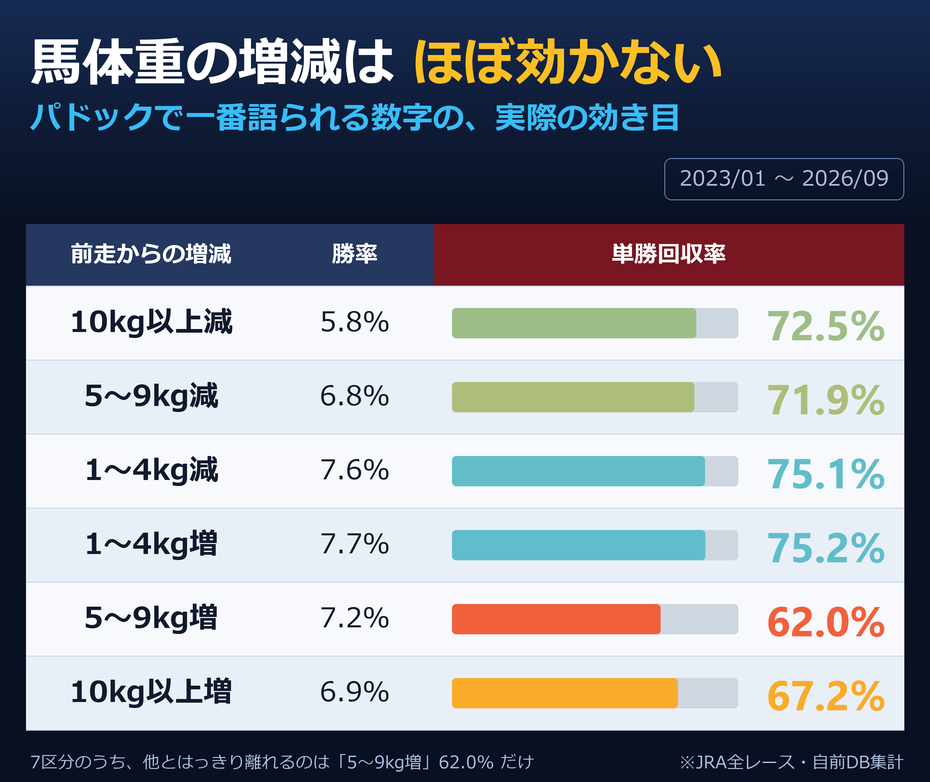
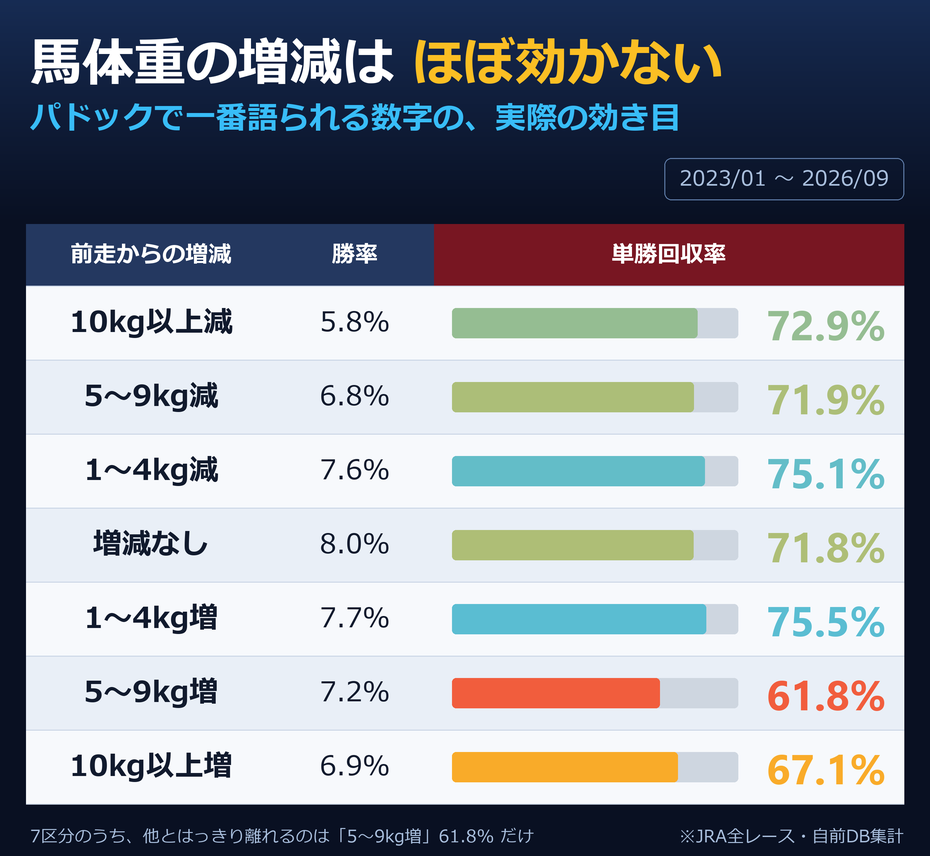
add: データコラムを公開

Changed region(s): [[0.0312, 0.0307, 0.9978, 0.8286], [0.0312, 0.8593, 0.9667, 1.0]]

diff --git a/column/body_weight.html b/column/body_weight.html
@@ -124,9 +124,9 @@ padding:14px 18px;font-size:.92rem;color:var(--dim)}
 <p class="meta">公開 <time datetime="2026-09-13">2026年9月13日</time> ／ 集計期間 2023/01 〜 2026/09</p>
 <div class="col">
 <p>馬体重の増減は必ず話題になりますが、回収率をほとんど動かしていませんでした。</p>
-<div class='tablewrap'><table class='col-table'><thead><tr><th>前走からの増減</th><th>勝率</th><th>単勝回収率</th></tr></thead><tbody><tr><td class='label'>10kg以上減</td><td>5.8%</td><td class='bar'><span class='track'><span class='fill' style='width:85.3%;background:rgb(158,190,136)'></span></span><b style='color:rgb(158,190,136)'>72.5%</b></td></tr><tr><td class='label'>5〜9kg減</td><td>6.8%</td><td class='bar'><span class='track'><span class='fill' style='width:84.6%;background:rgb(172,190,121)'></span></span><b style='color:rgb(172,190,121)'>71.9%</b></td></tr><tr><td class='label'>1〜4kg減</td><td>7.6%</td><td class='bar'><span class='track'><span class='fill' style='width:88.4%;background:rgb(98,189,201)'></span></span><b style='color:rgb(98,189,201)'>75.1%</b></td></tr><tr><td class='label'>1〜4kg増</td><td>7.7%</td><td class='bar'><span class='track'><span class='fill' style='width:88.5%;background:rgb(96,189,204)'></span></span><b style='color:rgb(96,189,204)'>75.2%</b></td></tr><tr><td class='label'>5〜9kg増</td><td>7.2%</td><td class='bar'><span class='track'><span class='fill' style='width:72.9%;background:rgb(241,96,60)'></span></span><b style='color:rgb(241,96,60)'>62.0%</b></td></tr><tr><td class='label'>10kg以上増</td><td>6.9%</td><td class='bar'><span class='track'><span class='fill' style='width:79.0%;background:rgb(249,171,41)'></span></span><b style='color:rgb(249,171,41)'>67.2%</b></td></tr></tbody></table></div><p class='note'>7区分のうち、他とはっきり離れるのは「5〜9kg増」62.0% だけ</p>
-<p>増減なしから±10kg以上まで7つに分けても、勝率は5.8〜7.7%、回収率は62〜75%の範囲に収まります。枠番と同じで、大半の区分は信頼区間が互いに重なります。</p>
-<p>唯一はっきり下に離れるのが「5〜9kg増」の62.0%で、これは1〜4kgの増減に収まった馬とは区間が重なりません。ただし7つも比べていれば、そのうち1つが偶然外れることは珍しくありません。この1点だけを根拠に買い方を変えるのは勧めません。</p>
+<div class='tablewrap'><table class='col-table'><thead><tr><th>前走からの増減</th><th>勝率</th><th>単勝回収率</th></tr></thead><tbody><tr><td class='label'>10kg以上減</td><td>5.8%</td><td class='bar'><span class='track'><span class='fill' style='width:85.8%;background:rgb(149,189,146)'></span></span><b style='color:rgb(149,189,146)'>72.9%</b></td></tr><tr><td class='label'>5〜9kg減</td><td>6.8%</td><td class='bar'><span class='track'><span class='fill' style='width:84.6%;background:rgb(172,190,120)'></span></span><b style='color:rgb(172,190,120)'>71.9%</b></td></tr><tr><td class='label'>1〜4kg減</td><td>7.6%</td><td class='bar'><span class='track'><span class='fill' style='width:88.4%;background:rgb(99,189,200)'></span></span><b style='color:rgb(99,189,200)'>75.1%</b></td></tr><tr><td class='label'>増減なし</td><td>8.0%</td><td class='bar'><span class='track'><span class='fill' style='width:84.5%;background:rgb(174,190,118)'></span></span><b style='color:rgb(174,190,118)'>71.8%</b></td></tr><tr><td class='label'>1〜4kg増</td><td>7.7%</td><td class='bar'><span class='track'><span class='fill' style='width:88.8%;background:rgb(90,189,210)'></span></span><b style='color:rgb(90,189,210)'>75.5%</b></td></tr><tr><td class='label'>5〜9kg増</td><td>7.2%</td><td class='bar'><span class='track'><span class='fill' style='width:72.7%;background:rgb(241,93,61)'></span></span><b style='color:rgb(241,93,61)'>61.8%</b></td></tr><tr><td class='label'>10kg以上増</td><td>6.9%</td><td class='bar'><span class='track'><span class='fill' style='width:79.0%;background:rgb(249,171,41)'></span></span><b style='color:rgb(249,171,41)'>67.1%</b></td></tr></tbody></table></div><p class='note'>7区分のうち、他とはっきり離れるのは「5〜9kg増」61.8% だけ</p>
+<p>増減なしから±10kg以上まで7つに分けても、勝率は5.8〜8.0%、回収率は62〜76%の範囲に収まります。区分どうしの組み合わせ21通りのうち20通りで、信頼区間が互いに重なります。</p>
+<p>いちばん低いのは「5〜9kg増」の61.8%で、これは「1〜4kg増」とは区間が重なりません。ただし7つも比べていれば、そのうち1つが偶然外れることは珍しくありません。この1点だけを根拠に買い方を変えるのは勧めません。</p>
 <p>増減の意味は馬ごとに違います。成長分の増加と、仕上がり不足の増加は同じ数字で表れます。全馬をまとめて数えると、その2つが打ち消し合う。数字が動かないのは、効果が無いからというより、1つの数字に別々のものが混ざっているからだと考えられます。</p>
 <p>馬体重が語られやすいのは、発走前に手に入る数少ない<b>新しい情報</b>だからでしょう。血統も戦績も何週間も前から変わりませんが、馬体重はレースごとに、発走の1時間ほど前に発表されます。新しく届いた数字は重要に感じられます。重要かどうかと、新しいかどうかは別の話です。</p>
 <p>混ざっているものを分ける方向なら、まだ見込みはあります。3歳の春に10kg増えるのと、7歳が休養明けに10kg増えるのでは意味が違う。年齢、間隔、前走からの期間、その馬の平常時の体重との差。そうやって条件を付ければ違いが出る可能性はあります。ただしこの表が示しているのは、<b>条件を付けずに増減だけを見ても意味がない</b>ということです。</p>
@@ -148,7 +148,7 @@ padding:14px 18px;font-size:.92rem;color:var(--dim)}
 <p>意味が出てくるとすれば、その馬の過去と比べたときです。好走したときの体重に戻ってきたのか、そこから離れていったのか。同じ増減でも、その馬の中で見ると読み方が変わります。</p>
 <p>パドックで実際の馬を見る人にとっては、体重の数字は「目で見た印象を確かめる材料」くらいに置くのがちょうどいいでしょう。数字が先にあって印象をそれに合わせる、という順番だけは避けたいところです。</p>
 <h2>集計方法</h2>
-<div class="method">馬体重が前走と比較できる馬のみ（新馬・海外帰りなどは除外）。信頼区間はブートストラップ法（3,000回）。</div>
+<div class="method">馬体重が前走と比較できる馬のみ（新馬・海外帰りなどは除外）。信頼区間はブートストラップ法（3,000回）。2026年11月18日訂正: 公開時は前走と同じ体重の馬が集計から漏れていたため、「増減なし」の行を加え、文中の範囲と信頼区間の記述を計算し直しました。</div>
 <h2>関連する検証</h2>
 <ul class="related"><li><a href="./odd_even.html">有意差が出ました。 でも信じません</a></li><li><a href="./rest_days.html">長い休み明けは 割引いて見る</a></li><li><a href="./three_year_old.html">3歳馬は古馬相手に 通用していた</a></li></ul>
 </div>
